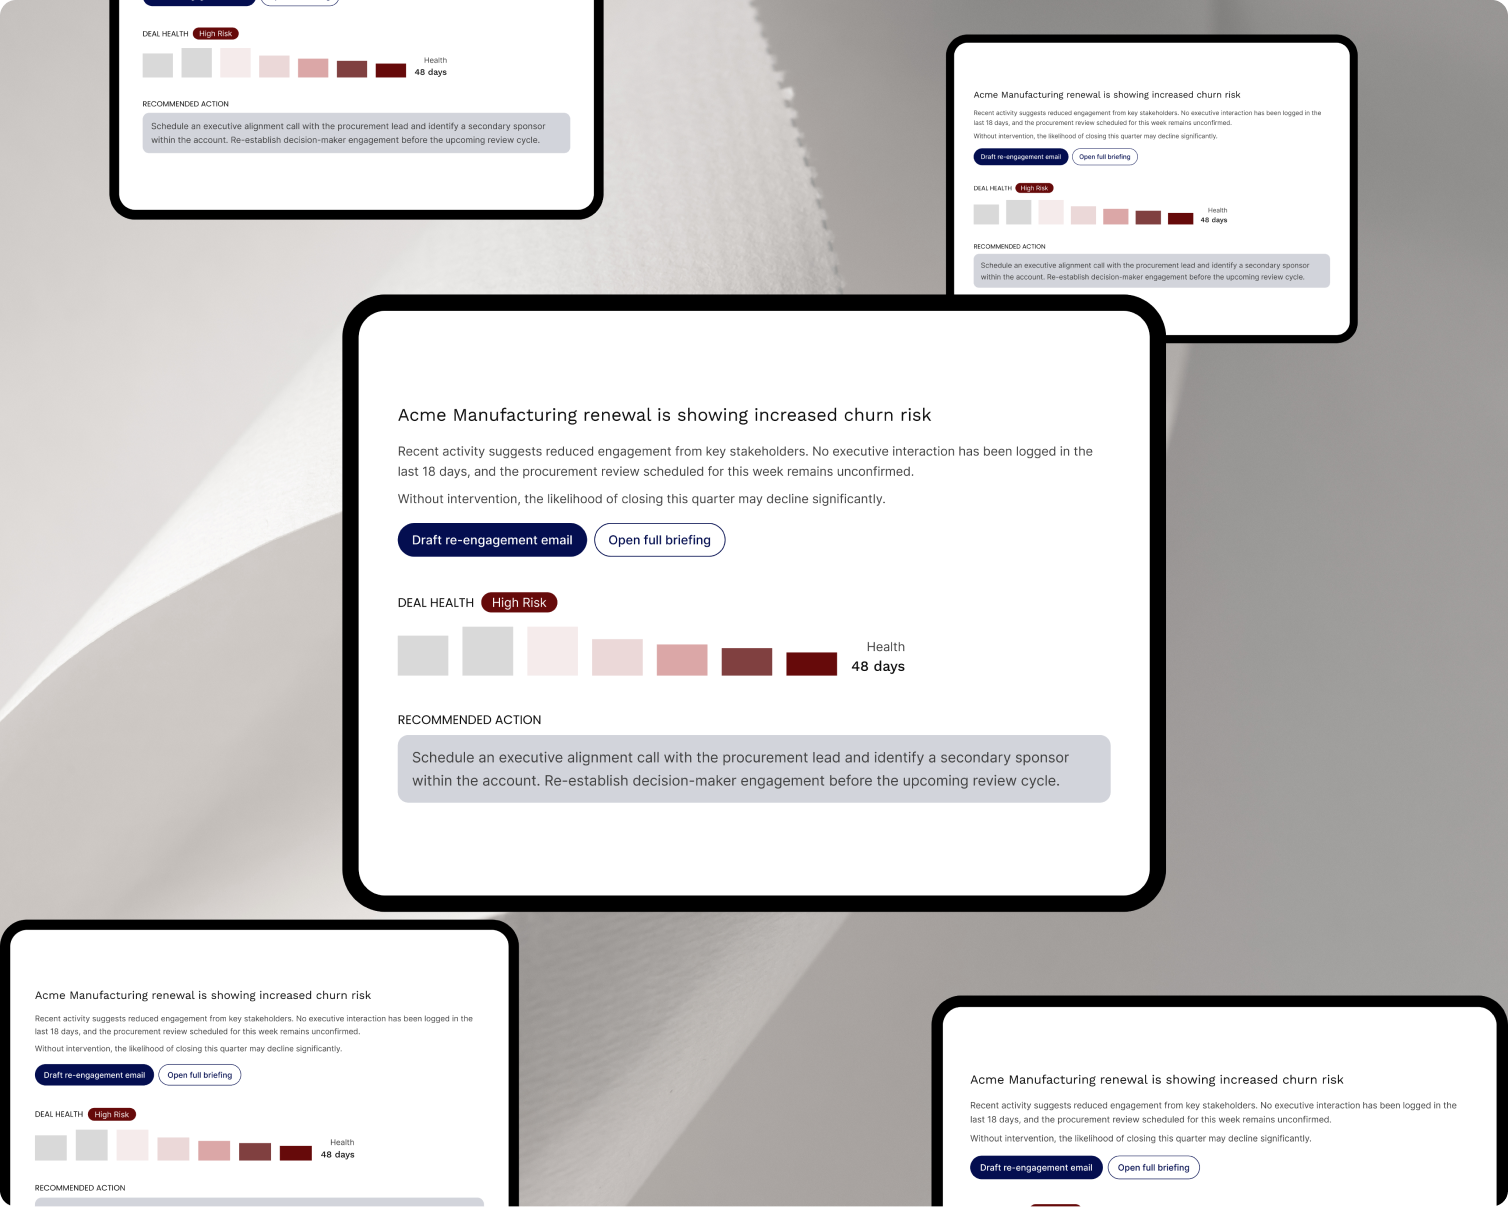
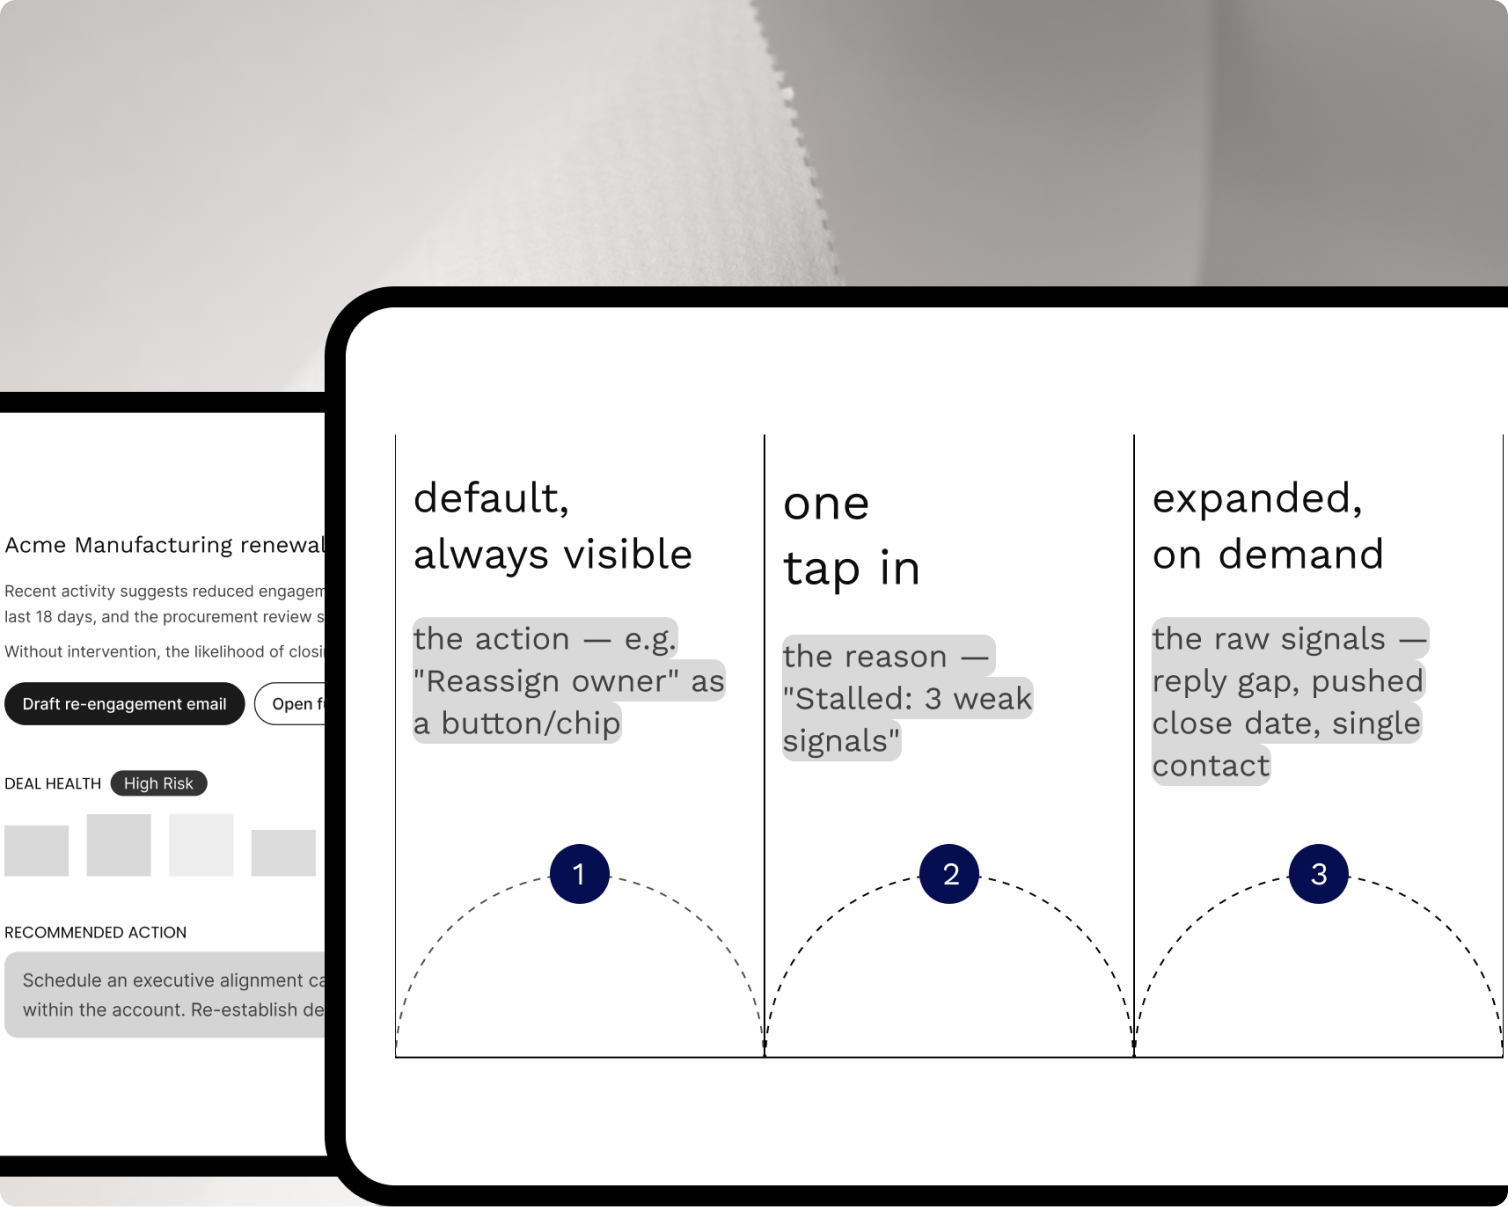
Add navbar to case study page, cap Landing hero width, clean up dead props
Removes redundant bg:null fields from DECISIONS entries and swaps in the
wireframe-05 asset for the final decision card.

diff --git a/src/pages/Home/index.jsx b/src/pages/Home/index.jsx
@@ -1,4 +1,5 @@
 import { useRef, useEffect, useState } from 'react';
+import Navbar from '../../components/Navbar';
 import styles from './Home.module.css';
 
 const LAYERS = [
@@ -50,7 +51,6 @@ const DECISIONS = [
     body: "The Deals module's inspection model failed because it required *deliberate intent*. Push delivery met reps in their existing morning behaviour. *Trade-off accepted:* A brief is less flexible than a dashboard. Reps who prefer to investigate on their own terms get a worse experience. That population was not the primary use case — **the target was the rep who was not going to investigate at all**.",
     image: 'wireframe-01.png',
     alt: 'Push brief wireframe',
-    bg: null,
     reversed: true,
     fullBleed: true,
   },
@@ -59,7 +59,6 @@ const DECISIONS = [
     body: "Stage and close date are *lagging* and *socially gamed*. Interaction gaps, single-threading, and meeting cancellations are *leading* and harder to fabricate. *Trade-off accepted:* Signal quality degrades in low-capture environments. This created a tiered value proposition — the brief performs better for organisations with better activity capture — and required **per-deal confidence indicators** to avoid misleading reps in low-data conditions.",
     image: 'wireframe-02.png',
     alt: 'Behavioural signals interface',
-    bg: null,
     reversed: false,
     fullBleed: true,
   },
@@ -68,7 +67,6 @@ const DECISIONS = [
     body: "Every competing platform studied flagged risk and left recovery to the rep. The JOLT framework (Dixon & McKenna) and Rateb et al. (2025) identified specific stage-appropriate recovery actions: multi-threading, mutual action plan reactivation, executive sponsor engagement, decision-forcing communication. ***A flag without a next step generates anxiety. A flag with a next step generates direction.*** *Trade-off accepted:* Recommended actions make assumptions about deal context that will sometimes be wrong. Override had to be frictionless — one tap — and the brief had to frame itself explicitly as a starting point, not a directive.",
     image: 'wireframe-03.png',
     alt: 'Every flag paired with a specific executable action.',
-    bg: null,
     reversed: true,
     fullBleed: true,
   },
@@ -77,17 +75,16 @@ const DECISIONS = [
     body: '"Last buyer reply: 18 days ago. Close date pushed twice in 30 days. One contact engaged." A rep can evaluate, disagree, or act on that. **They cannot evaluate a score of 34.** HubSpot\'s AI Deal Score — the most explainable feature in the competitive analysis — showed top-five key factors with ± direction. Every other platform showed a score with "top factors" at best. *Trade-off accepted:* Factor-level explanations require more space and cognitive investment per deal. The information hierarchy had to be enforced strictly: *action first, reason second, supporting signals on demand*.',
     image: 'wireframe-04.png',
     alt: 'Factor-level deal explanation wireframe',
-    bg: null,
     reversed: false,
     fullBleed: true,
   },
   {
     title: 'No auto-close, no auto-update.',
     body: "Qualification and disqualification judgment, forecast commits, and deal strategy stayed **fully human-controlled**. Automated actions on high-stakes decisions triggered the most severe aversion responses when wrong (PSAA framework, Habel et al., 2023; Rangarajan et al., 2026). *Trade-off accepted:* The brief could not autonomously close the loop. A rep who received a flag and did nothing would see the deal continue to decay. **This was a known, acceptable failure mode.** The brief improved the odds of intervention. *It couldn't guarantee it.*",
-    image: null,
-    alt: '',
-    bg: 'bg-05.png',
+    image: 'wireframe-05.png',
+    alt: 'No auto-close, no auto-update wireframe',
     reversed: true,
+    fullBleed: true,
   },
 ];
 
@@ -190,7 +187,9 @@ const Home = () => {
   }, []);
 
   return (
-    <div className={styles.container}>
+    <div>
+      <Navbar />
+      <div className={styles.container}>
 
       {/* Hero */}
       <div className={styles.hero}>
@@ -441,6 +440,7 @@ const Home = () => {
           </div>
         </div>
 
+      </div>
       </div>
     </div>
   );

diff --git a/src/pages/Landing/Landing.module.css b/src/pages/Landing/Landing.module.css
@@ -22,6 +22,8 @@
 
 .hero {
   width: 100%;
+  max-width: 1440px;
+  margin: 0 auto;
   padding: 120px clamp(20px, 4.5vw, 60px);
 }
 